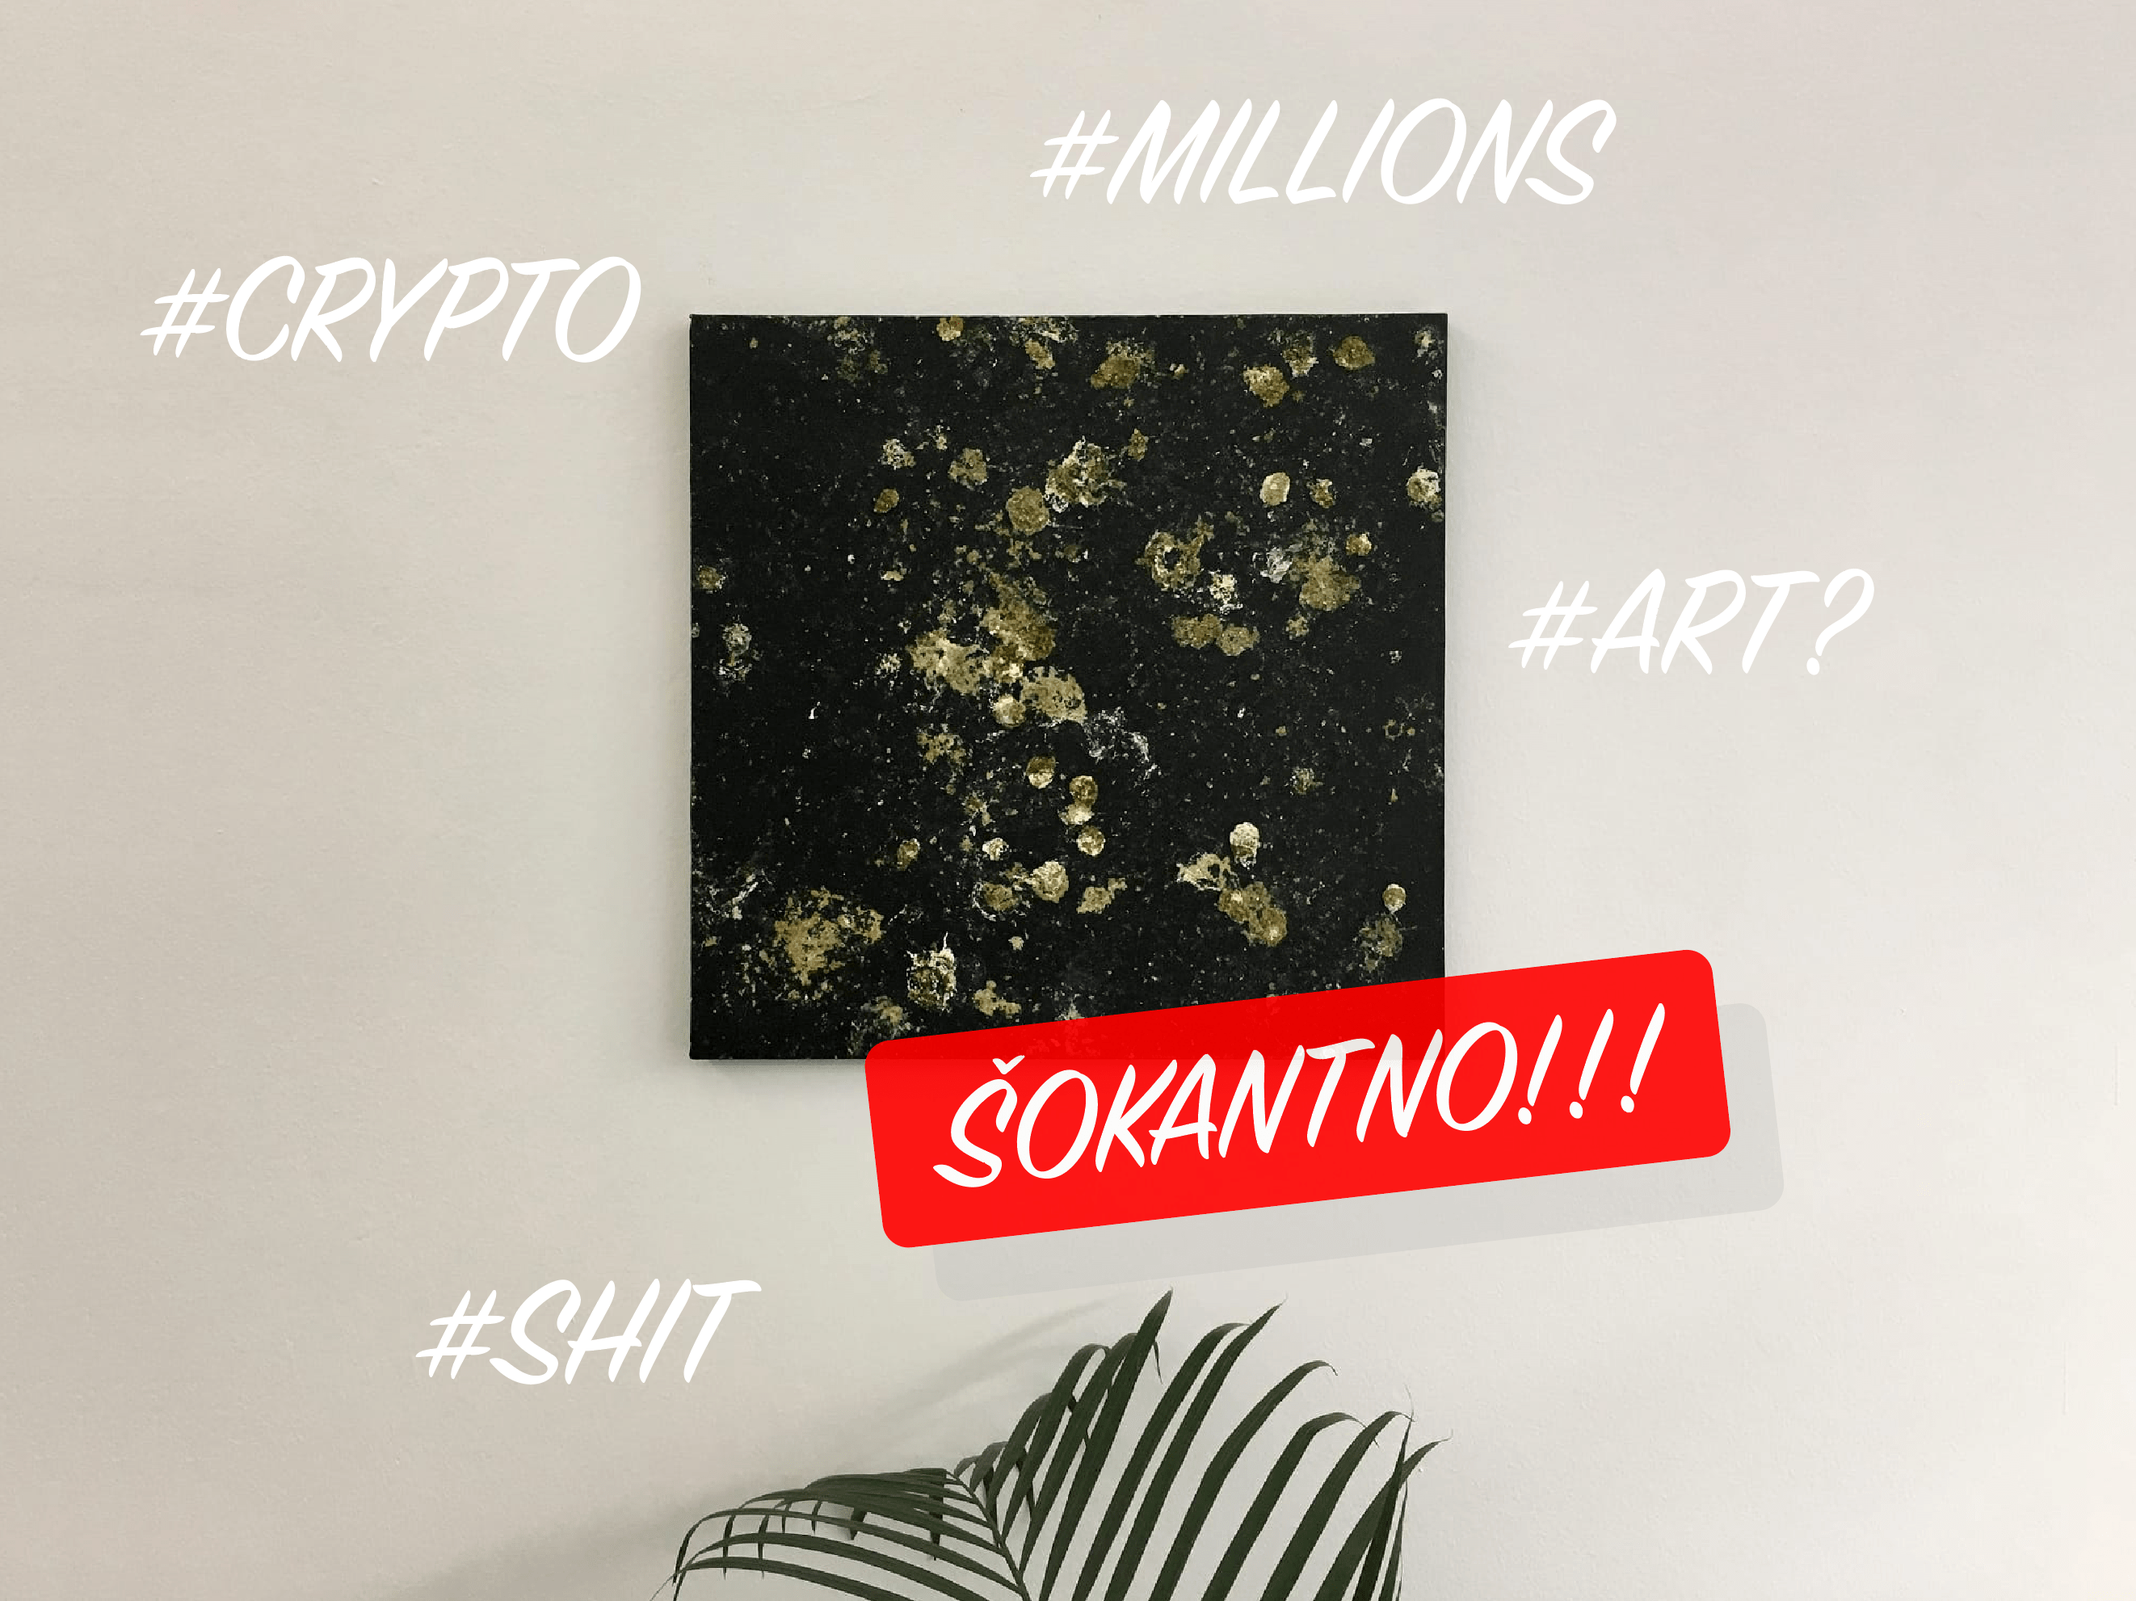
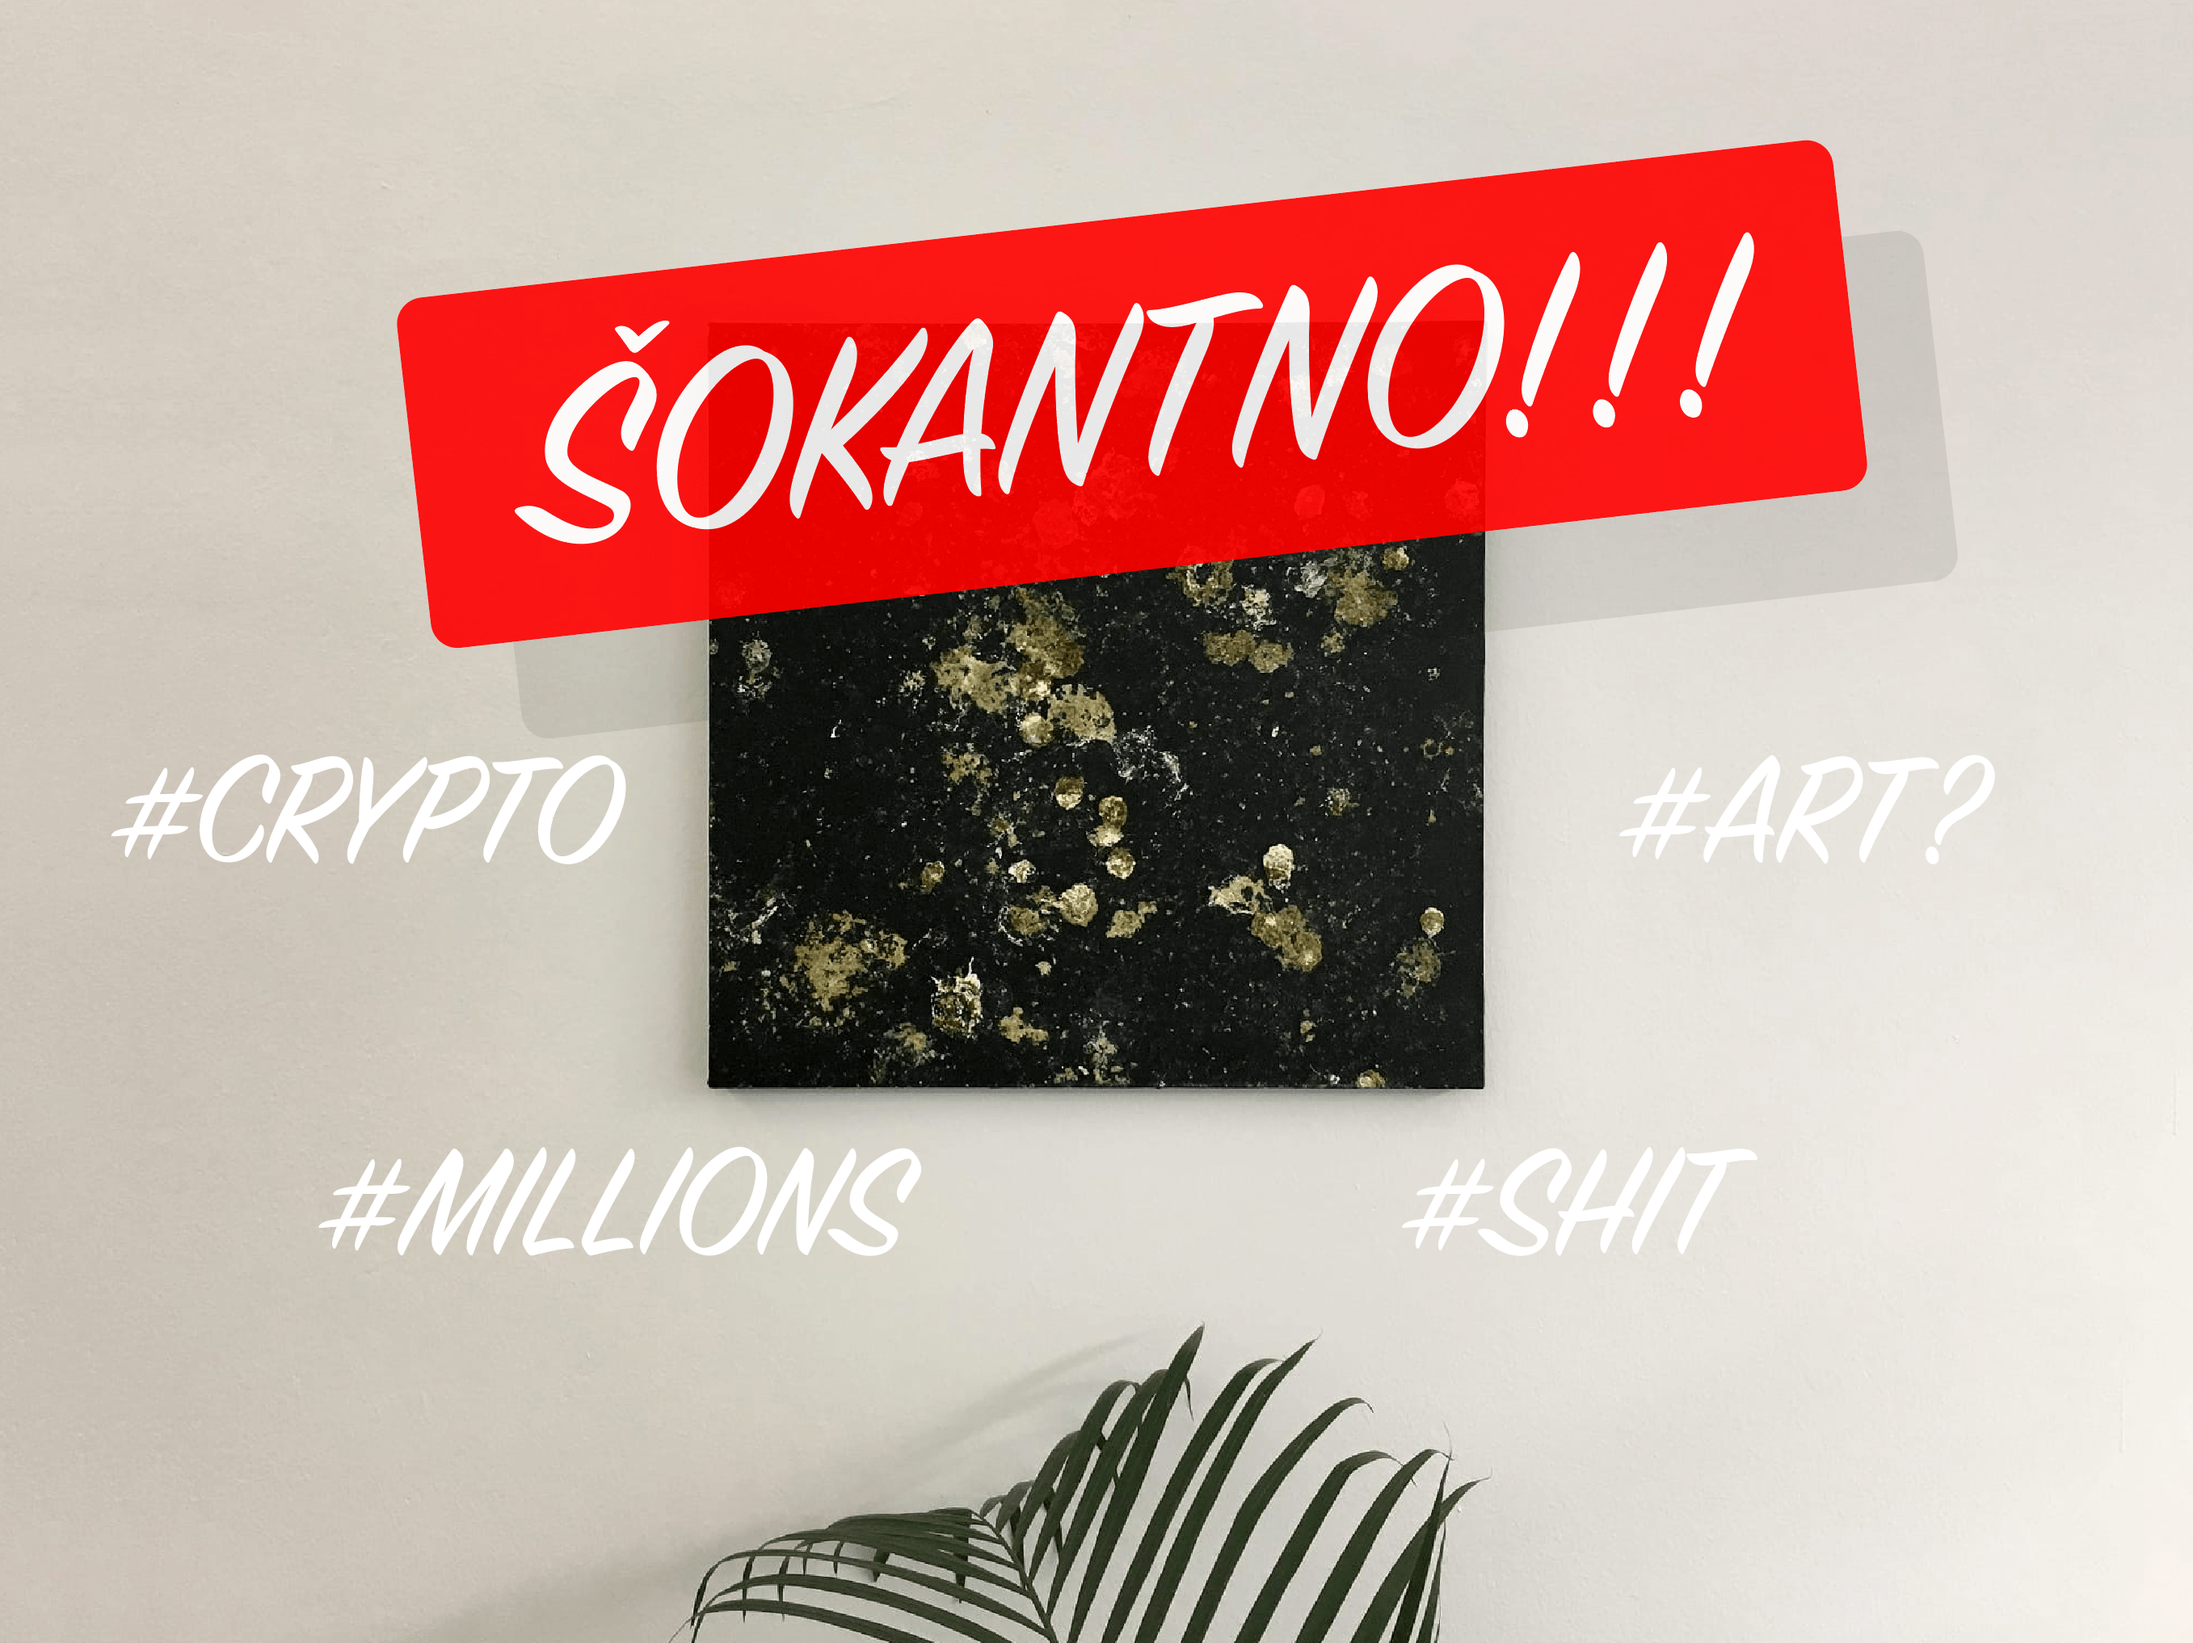
update

diff --git a/content/projects/doveandpeace.md b/content/projects/doveandpeace.md
@@ -1,67 +1,67 @@
 ---
-name: I sold my artwork for $1.2M
+name: I sold my artwork for $1.2M!!!
 thumbnail: bela.png
-cover: hero.png
-description: Fake news on national TV, radio and newspaper
+cover: hero2.png
+description: season 1, episode 1
 order: 12001
 ---
 
 
-{{> img src="parody_law.png" size="small"}}
-{{ spacer }} {{ spacer }} 
 
 ## August, 2017
 I colored the canvas black and left it overnight in one of the dove breeding houses for doves to shit on. I'd like to thank Branko Jurman for all the help. Hvala ti.
 
+[{{> img src="doves.png" size="small"}}](https://www.facebook.com/znmedias/)
+
+... and then I wanted to sell it ...
+{{ spacer }} {{ spacer }} 
+
+# Fake 'viral' news on Facebook
+
 ## September, 2017 
-I made the video with Tadej Štrok and Žiga Aljaž
-
-## 17th October, 2017 
-I started a [Facebook page](https://www.facebook.com/znmedias/)
-called ZN (ZEK News) media and put some viral videos on
-
-## 30th October, 2017 
-I launched my [video](https://www.facebook.com/znmedias/videos/10212942614514437/) on ZN Facebook page and promoted it with 70 USD. It got 70.000 views thanks to great marketing skills of Matteo Pasi
-
-## 14th November, 2017 
-I published my own article on [Guadrain](https://www.theguadrain.com/artanddesign/2017/nov/12/new-era-in-art) (a fake replicate of original Guardian's webpage) with Srđan Prodanović who put the code to work
-
-## 15th November, 2017 
-I made it to the front page of most printed newspaper in Slovenia - Slovenske novice
-
-## 16th November, 2017 
-I made it to the RTV - national radio station as a fact and opinion in a debate 
-
-## 16th November, 2017 
-I made it to the national news TV as the main story (Svet na Kanalu A)
-
-
-{{ spacer }} {{ spacer }} {{ spacer }} 
-
-# Fake Facebook 'viral' news
 
 <h2><iframe src="https://www.facebook.com/plugins/video.php?href=https%3A%2F%2Fwww.facebook.com%2Fznmedias%2Fvideos%2F10212942614514437%2F&show_text=0&width=476" width="476" height="476" style="border:none;overflow:hidden" scrolling="no" frameborder="0" allowTransparency="true" allowFullScreen="true"></iframe></h2>
 
-{{> label title="with Tadej Štrok and Žiga Aljaž" description="video production" }}
+{{> label title="with Žiga Aljaž and Tadej Štrok" description="video production" }}
 
 {{> label title="with Matteo Pasi" description="marketing" }}
 
 {{ spacer }} {{ spacer }} 
 
-# Fake address: The Guadrain
+## 17th October, 2017 
+I started a [Facebook page](https://www.facebook.com/znmedias/) called ZN (ZEK News) media and published some existing viral videos
 
+[{{> img src="zn.png" size="small"}}](https://www.facebook.com/znmedias/)
+{{ spacer }} {{ spacer }} 
+
+## 30th October, 2017 
+I launched my [video](https://www.facebook.com/znmedias/videos/10212942614514437/) on ZN Facebook page and promoted it with 80 EUR. It got 80.000 views thanks to great marketing skills of Matteo Pasi
+
+{{> img src="results.png" size="small"}}
+{{ spacer }} {{ spacer }} 
+
+# Fake domain: TheGuadrain.com
+
+## 14th November, 2017 
+
+I published my own article on [Guadrain](https://www.theguadrain.com/artanddesign/2017/nov/12/new-era-in-art) (a fake replicate of original Guardian's webpage) with Srđan Prodanović who put the code to work
 [{{> img src="guardian.png" size="small"}}](https://www.theguadrain.com/artanddesign/2017/nov/12/new-era-in-art)
-
-{{> label title="with Srđan Prodanović" description="coding" }}
 
 {{ spacer }} {{ spacer }} 
 
+
 # Real Newspaper: Slovenske novice
+
+## 15th November, 2017 
+I made it to the front page of most printed newspaper in Slovenia - Slovenske novice
 
 {{> img src="slovenske-novice.jpg"}}
 {{ spacer }} {{ spacer }} 
 
 # Real Radio: RTV
+
+## 16th November, 2017 
+I made it to the RTV - national radio station as a fact and opinion in a debate 
 
 <iframe width="100%" height="300" scrolling="no" frameborder="no" src="https://w.soundcloud.com/player/?url=https%3A//api.soundcloud.com/tracks/373065425&amp;color=%23ff5500&amp;auto_play=false&amp;hide_related=false&amp;show_comments=true&amp;show_user=true&amp;show_reposts=false&amp;show_teaser=true&amp;visual=true"></iframe> 
 
@@ -69,13 +69,16 @@ I made it to the national news TV as the main story (Svet na Kanalu A)
 
 # Real TV: Svet na Kanalu A
 
+## 16th November, 2017 
+I made it to the national news TV as the main story (Svet na Kanalu A)
+
 {{> youtube id="sXEmVgbJ8D4?t=2040 " }} 
 
 <h2><iframe src="https://www.facebook.com/plugins/video.php?href=https%3A%2F%2Fwww.facebook.com%2Fmiha.artnak%2Fvideos%2F10159605714195181%2F&show_text=0&width=560" width="560" height="311" style="border:none;overflow:hidden" scrolling="no" frameborder="0" allowTransparency="true" allowFullScreen="true"></iframe></h2>
 
 {{ spacer }} {{ spacer }} {{ spacer }} 
 
-# and finally, some research journalism
+and finally, revealed with some research journalism ...
 
 {{ spacer }} 
 <blockquote class="embedly-card" data-card-key="4391e64690444f0ea2b580d367df61d9" data-card-controls="0" data-card-type="article-full"><h4><a href="http://www.mladina.si/182842/fekalni-ekspresionizem-oziroma-poop-art/">Fekalni ekspresionizem oziroma poop-art | MLADINA.si</a></h4><p>Golobja umetnina © The Miha Artnak, ZEK Ljubljanski multimedijski umetnik The Miha Artnak je te dni uspešno izpeljal še eno izmed domiselnih potegavščin. S svojimi duhovitimi podvigi je doslej že večkrat marsikoga napetnajstil, denimo takrat, ko je policistom, ki so ga želeli ustaviti (in oglobiti) pri ustvarjanju Vzorca iz otroštva - osupljivo dolgega grafita, narejenega v eni potezi - suvereno predložil ponarejeno dovoljenje in mirno ustvarjal naprej.</p></blockquote>
@@ -86,10 +89,13 @@ I made it to the national news TV as the main story (Svet na Kanalu A)
 <script async src="//cdn.embedly.com/widgets/platform.js" charset="UTF-8"></script>
 
 
-
 [{{> img src="siol.png" size="small"}}](https://siol.net/trendi/kultura/slovenski-umetnik-ki-je-sliko-iz-golobjih-iztrebkov-prodal-za-milijonov-evrov-intervju-453488)
 
 {{ spacer }} {{ spacer }} {{ spacer }} 
 
 
 [{{> img src="vecer.png" size="small"}}](https://www.vecer.com/kako-je-slovencu-uspelo-prodati-golobje-iztrebke-za-milijon-evrov-6350439)
+
+{{ spacer }} {{ spacer }} 
+{{> img src="parody_law.png" size="small"}}
+{{ spacer }} {{ spacer }} 
